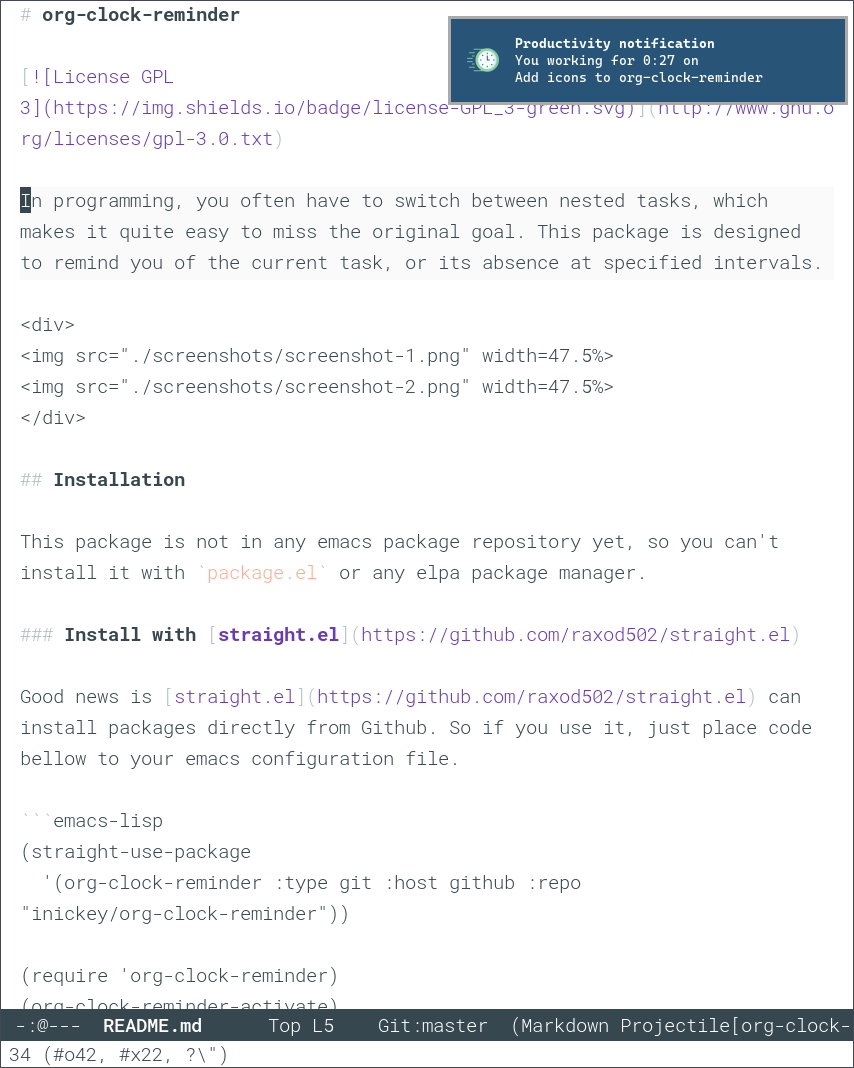
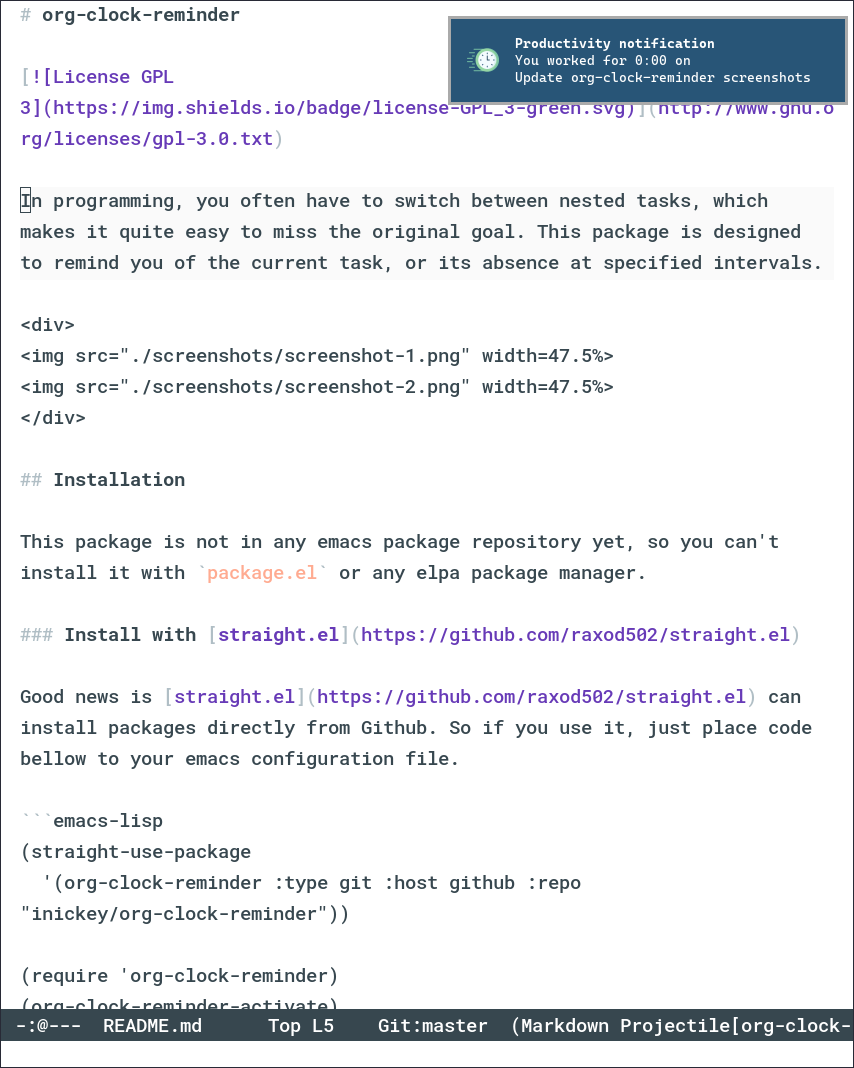
update notifications phrasing
riscy from melpa gives some suggestions, so they're applied in this
commit. English isn't my native language, so my notification messages
weren't good enough

diff --git a/README.md b/README.md
@@ -76,13 +76,13 @@ You can also change notification title string and body format string.
 
 ```emacs-lisp
 (setq org-clock-reminder-notification-title "Productivity notification"
-      org-clock-reminder-format-string "You working for %s on<br/>%s")
+      org-clock-reminder-format-string "You worked for %s on<br/>%s")
 ```
 
 If you have turned on inactivity notifications, you can also set inactivity notification text.
 
 ```emacs-lisp
-(setq org-clock-reminder-empty-text "There is no currently clocking task. Close all distracting windows and continue working...")
+(setq org-clock-reminder-empty-text "No task is being clocked. Close all distracting windows and continue working...")
 ```
     
 If there's not enought customizations for your task, you can set `org-clock-reminder-format` function.
